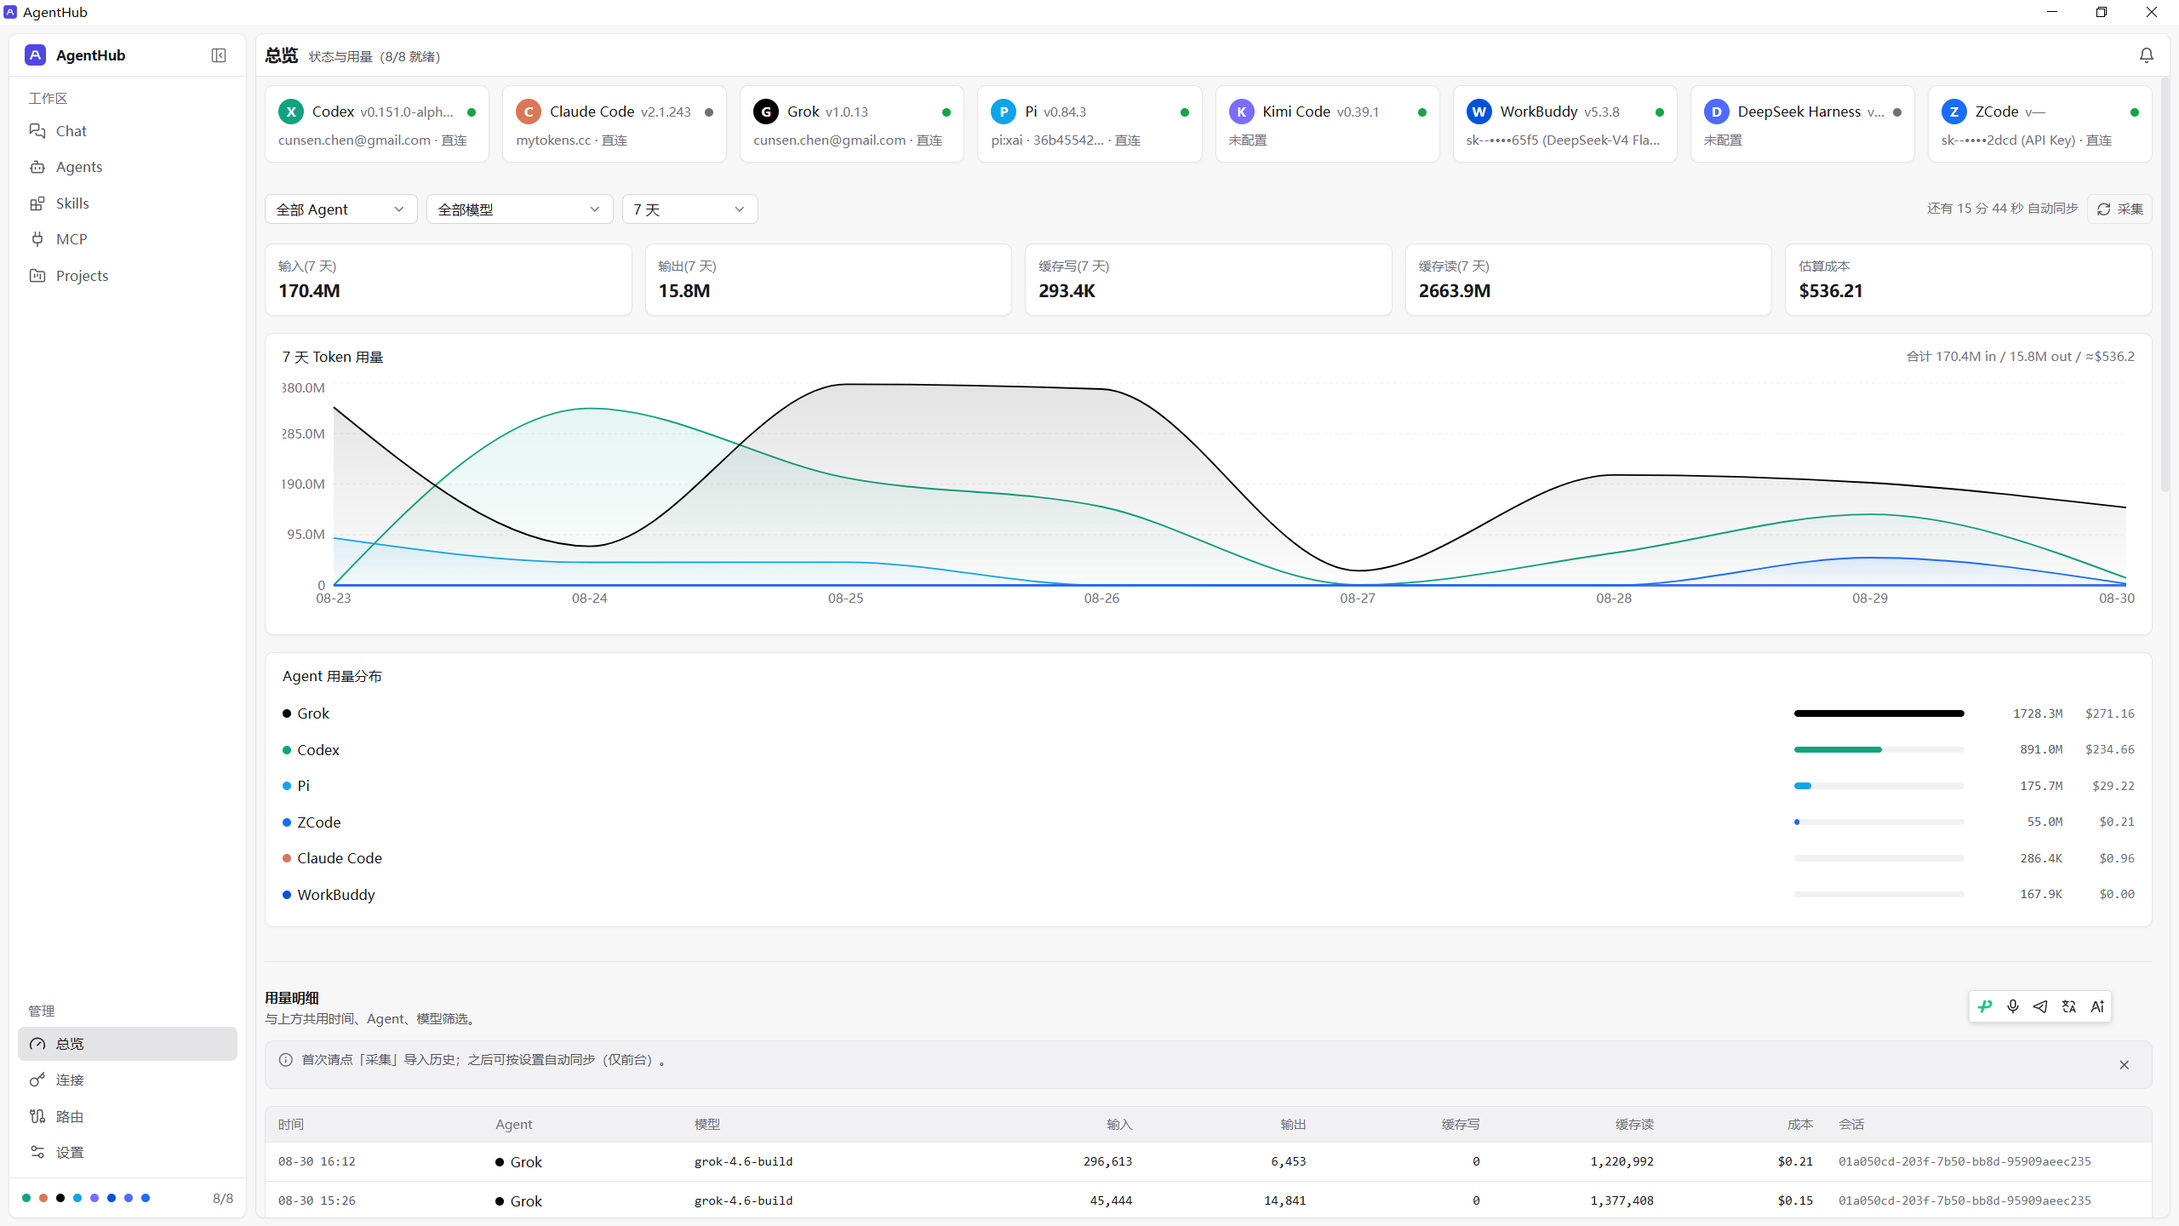
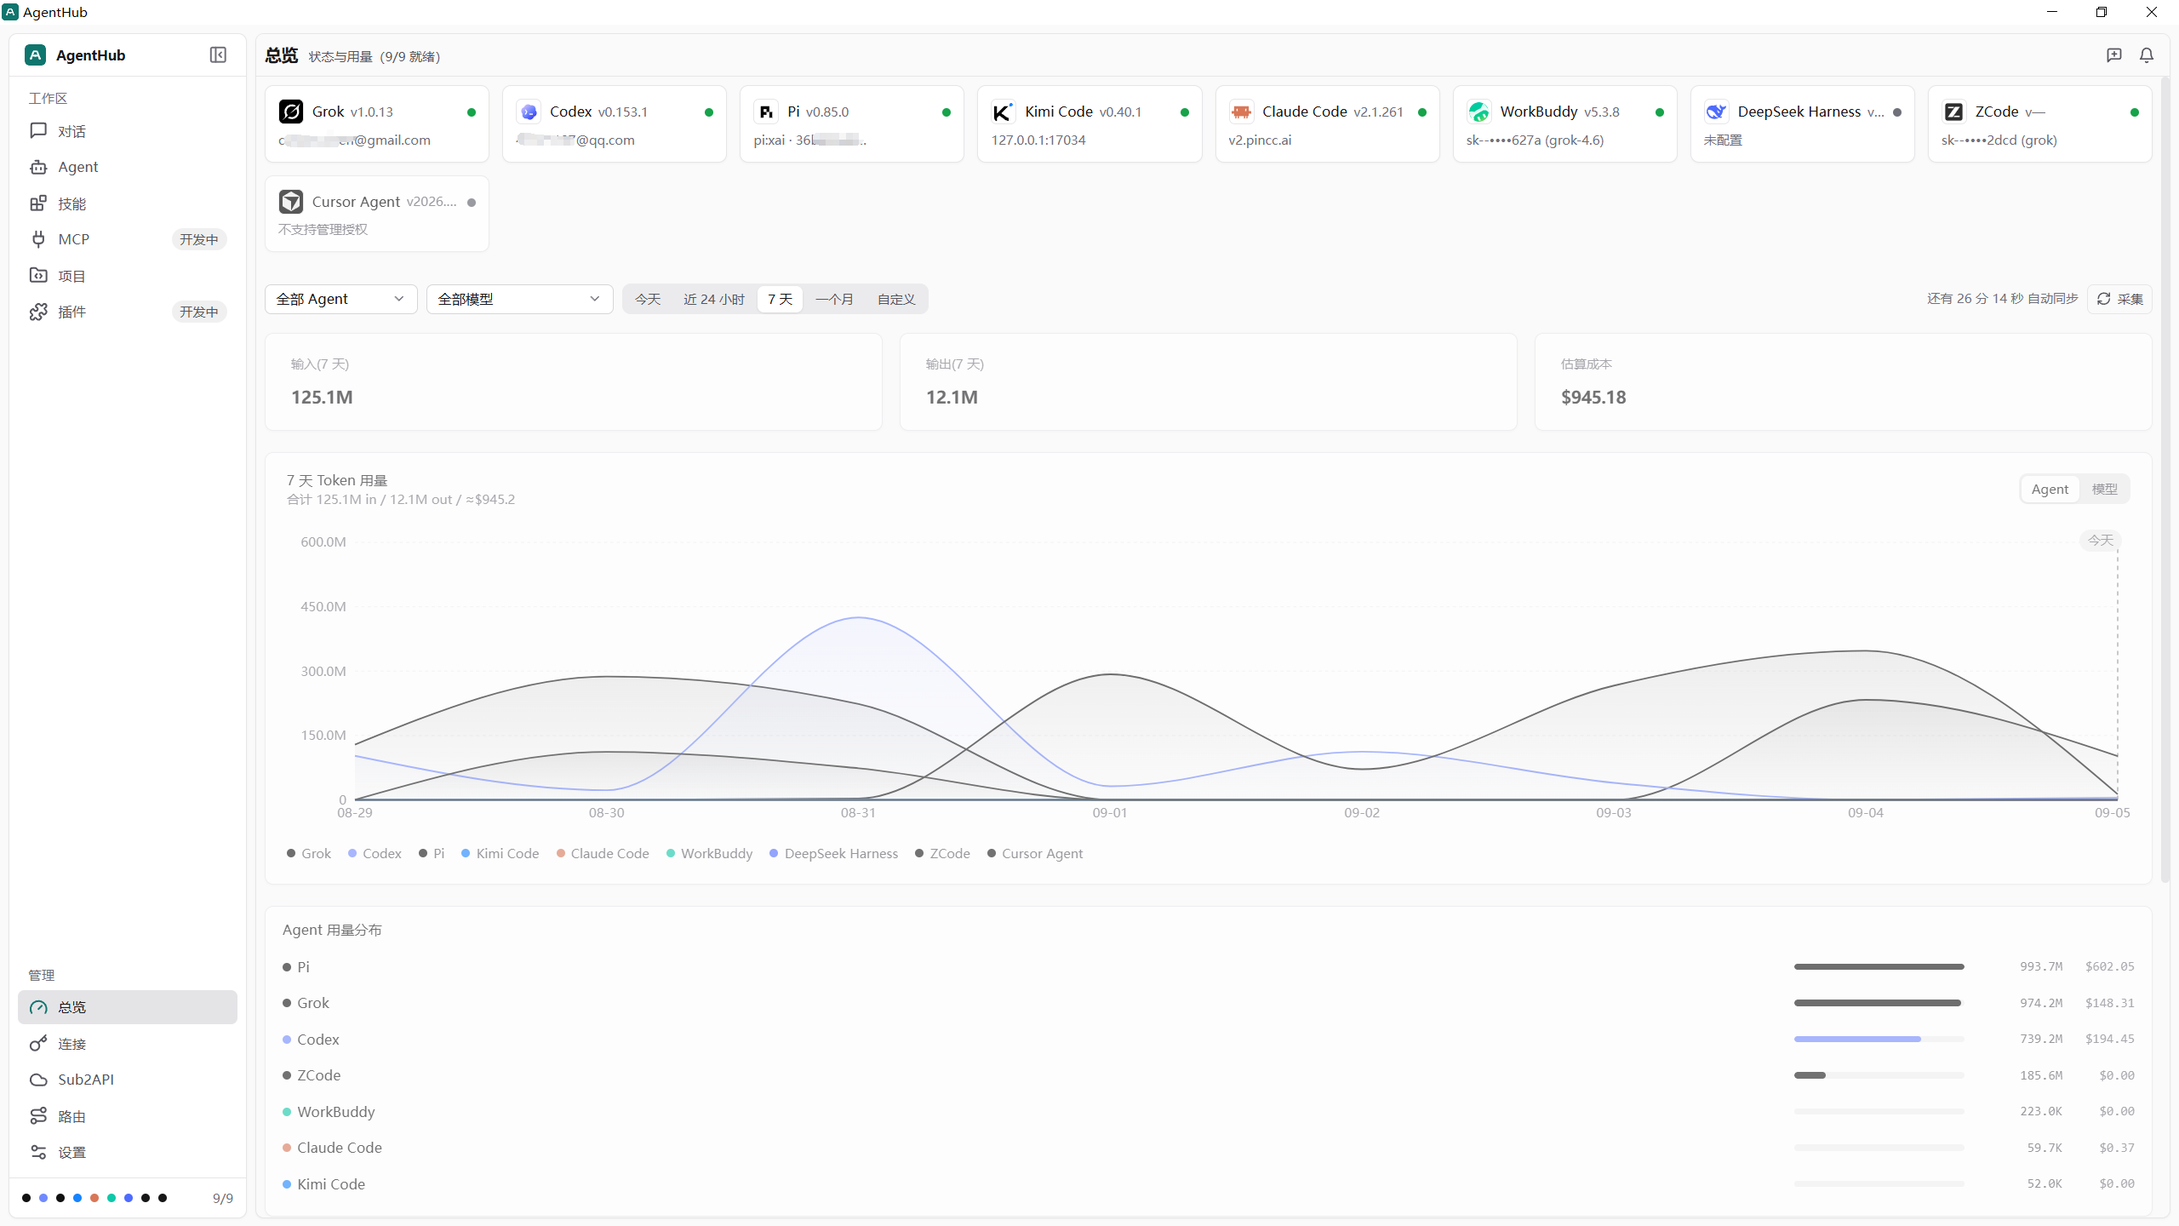
Refactor code structure for improved readability and maintainability

diff --git a/docs/ui/page-patterns.md b/docs/ui/page-patterns.md
@@ -3,7 +3,7 @@ title: UI 页面模式
 type: reference
 status: current
 owner: maintainers
-updated: 2026-09-04
+updated: 2026-09-05
 ---
 
 # UI Page Patterns
@@ -26,10 +26,11 @@ The application is organized by work and management, with Agent filtering inside
 | Workspace | Plugins | `/plugins` | Installed vendor plugin / extension packs; Claude / Grok can enable or disable; Pi is list-only |
 | Manage | Dashboard | `/` | Agent status, usage, and shortcuts |
 | Manage | Connections | `/connections` | General login list; route-only entries with `home=route_pool` may be absent |
+| Manage | Sub2API | `/sub2api` | Sign in to a Sub2API site, manage API keys by group, and import usable keys into an installed Agent |
 | Manage | Routes | `/routes` | Local route runtime and the connection pool. May add/manage route-only official login / API Key; `/routes` opens the board; secondary nav: board / pool / tokens / activity |
 | Manage | Settings | `/settings` | Preferences, local device, backups, and about |
 
-`Routes`, `Plugins`, and `MCP` are in development. New installs hide the Routes and Plugins sidebar entries (`routesNavVisible` / `pluginsNavVisible` default off). Turning the setting on shows those entries; the pages stay reachable at `/routes` and `/plugins`. MCP stays in the workspace nav. Settings (Routes / Plugins), the page titles, and the sidebar entries (when shown) carry an in-development mark. Usage is a Dashboard section; `/usage` redirects to `/?section=usage`. Backups are a Settings tab; `/backups` redirects to `/settings?tab=backups`. Install / uninstall / update for plugin packs is still a [proposal](../proposals/plugin-management.md). The current page lists installed packs for Claude, Grok, and Pi; Claude and Grok can enable or disable. There is no install button.
+`Routes`, `Plugins`, and `MCP` are in development. New installs hide the Routes, Plugins, and Sub2API sidebar entries (`routesNavVisible`, `pluginsNavVisible`, and `sub2apiNavVisible` default off). Turning a setting on shows its entry; the pages stay reachable at `/routes`, `/plugins`, and `/sub2api`. MCP stays in the workspace nav. Settings (Routes / Plugins), the page titles, and the sidebar entries (when shown) carry an in-development mark. Usage is a Dashboard section; `/usage` redirects to `/?section=usage`. Backups are a Settings tab; `/backups` redirects to `/settings?tab=backups`. Install / uninstall / update for plugin packs is still a [proposal](../proposals/plugin-management.md). The current page lists installed packs for Claude, Grok, and Pi; Claude and Grok can enable or disable. There is no install button.
 
 The compatibility paths `/adapter` and `/router` replace-navigate to `/routes`. They are recovery paths for existing links, not current navigation labels.
 
@@ -62,7 +63,7 @@ The page title is a single line: name, then short description. Distinguish them 
 
 ### 2.2 Full-height workbench
 
-Chat, Skills, Projects, Plugins, Connections, Routes, and Settings use `fullBleed` and manage their own vertical scrolling. Full-height does not create a third content width: Chat messages use the reading column; Skills, Projects, Plugins, Connections, and the Settings backups tab use the edge column with a split preview surface. Page-level commands stay in the list column, on the right of the same row as tabs or filters. They do not occupy a row of their own. The workbench list and the preview column share the same `pageEdge.inset` top and bottom so both edges line up. The page title itself stays in the top bar.
+Chat, Skills, Projects, Plugins, Connections, Sub2API, Routes, and Settings use `fullBleed` and manage their own vertical scrolling. Full-height does not create a third content width: Chat messages use the reading column; Skills, Projects, Plugins, Connections, Sub2API, and the Settings backups tab use the edge column with a split preview surface. Page-level commands stay in the list column, on the right of the same row as tabs or filters. They do not occupy a row of their own. The workbench list and the preview column share the same `pageEdge.inset` top and bottom so both edges line up. The page title itself stays in the top bar.
 
 ### 2.3 Settings
 
@@ -70,7 +71,7 @@ Settings uses the workbench header and four page tabs; the tab row stays at the 
 
 | Tab | Query | Contents |
 |---|---|---|
-| Preferences | `?tab=preferences` | Grouped cards: language and appearance; launch and close; sidebar (auto-collapse on Routes; Routes / Plugins visibility); Routes (duplicate-key tip and same-URL update); Skills (market source); Usage (collection interval) |
+| Preferences | `?tab=preferences` | Grouped cards: language and appearance; launch and close; sidebar (auto-collapse on Routes; Routes / Plugins / Sub2API visibility); Routes (duplicate-key tip and same-URL update); Skills (market source); Usage (collection interval) |
 | This computer | `?tab=local` | Data directory, log level, retention, log directory |
 | Backups | `?tab=backups` | Agent configuration snapshots; keep-copies switch; restore/delete; file inspect |
 | About | `?tab=about` | Version, update check, repository, and read-only credential-storage notes |
@@ -153,7 +154,11 @@ The primary start/stop control for the shared local gateway is on the board, not
 
 The current `local_bridge` runtime is hosted in the Tauri process through the in-process control host. Routes may report unavailable when that host is not reachable. A future sidecar is a proposal and is not a current UI assumption.
 
-## 7. Chat
+## 7. Sub2API
+
+Sub2API is a separate site-management workbench, not a Routes subpage or a replacement for Connections. A signed-in user can filter keys by group; create, edit, enable, disable, or delete keys; and import a usable key into an installed Agent. The visible API key value stays masked. Site session and saved-account controls belong to this page, not the Connections list.
+
+## 8. Chat
 
 Chat is a one-conversation, one-Agent workbench with a session rail, transcript, process panel, and composer.
 
@@ -166,7 +171,7 @@ Chat is a one-conversation, one-Agent workbench with a session rail, transcript,
 - Switching conversations clears in-memory process buffers for the old view but does not cancel the active operation. The target conversation shows a “sending elsewhere” recovery line.
 - Copy is available for completed user/Agent messages. Running messages do not show copy or retry.
 
-## 8. Skills, Projects, and Plugins
+## 9. Skills, Projects, and Plugins
 
 Skills, Projects, and Plugins are full-height workbenches with a left inventory and an optional right preview.
 
@@ -193,7 +198,7 @@ Skills, Projects, and Plugins are full-height workbenches with a left inventory 
 - Details lead with the pack components (bundled MCP is a component, not a list row). Identity fields (version, marketplace, scope, path) follow. Pi also shows the specified version from settings when pinned, and a short note on how upgrade is judged (pinned npm specs are skipped by Pi updates; this page does not probe npm for a newer unpinned version). Claude and Grok packs can be turned on or off; turning off is not uninstall. There is no install button.
 - Empty copy depends on the Agent filter: wired-but-empty (install in that tool, then refresh), planned (list not wired yet), or unsupported (this tool has no pack system of this kind). Loading, empty, and error states stay in the list column. Diagnostic scan sources are not shown in the list. Hiding the sidebar item does not disable `/plugins`.
 
-## 9. Agents and MCP
+## 10. Agents and MCP
 
 ### Agents
 
@@ -203,7 +208,7 @@ Agents is the lifecycle surface: installed state, runtime readiness, install/upd
 
 MCP is a read-only inventory of known **MCP server** configuration files. It lists Agent, server, transport, source path, and enabled status. Parse errors, missing files, and an empty inventory each get their own recoverable state. Inventory does not imply that editing or injection is supported, and it is not the plugin/extension pack manager. The current page is a standard single-column table. Plugin / extension packs live on `/plugins`.
 
-## 10. Responsive and interaction constraints
+## 11. Responsive and interaction constraints
 
 - Use stable grid tracks (`auto-fit`/`minmax`) for Agent cards, tables, toolbars, and preview panes.
 - On narrow windows, wrap labels and metadata instead of shrinking type or allowing overlap. Icon-only actions remain available through an overflow menu when the row cannot fit.
@@ -211,7 +216,7 @@ MCP is a read-only inventory of known **MCP server** configuration files. It lis
 - Escape closes the topmost dialog/menu/popover before closing a preview. Focus order follows content, row actions, separator, preview tools, then document body.
 - Page-specific user copy belongs with the page pattern or locale dictionary. Do not embed implementation phase labels in visible UI.
 
-## 11. Current implementation references
+## 12. Current implementation references
 
 - Layout and routing composition: `src/App.tsx`, `src/components/layout/`, and `src/pages/`.
 - Shared component rules: `src/components/ui/`, `src/components/shared/`, and [design-system.md](design-system.md).

diff --git a/README.en.md b/README.en.md
@@ -14,6 +14,7 @@ The desktop UI is available in English and 简体中文. Switch under **Settings
 
 - Manage local agents such as Claude Code, Codex, Kimi, Grok, Pi, WorkBuddy, ZCode, Cursor Agent, and DeepSeek Harness. Cursor Agent is hidden from the sidebar and Connections by default; you can unhide it on Agents.
 - See logins and connections across tools. Prefer writing directly into the target tool’s config. **Local forwarding** is used only when there are published rules and a tested protocol conversion; otherwise the UI shows **Not supported now**, and nothing is forwarded silently.
+- Sign in to a Sub2API site, manage its API keys, and import usable keys into installed agents.
 - Manage shared Skills, inspect discovered MCP, and browse projects and sessions.
 - Start a local session in the desktop app and watch the streaming process. Usage and cost estimates are parsed from local session logs.
 - Use the CLI for `doctor`, `env`, `agent`, `provider`, `account`, `skill`, `usage`, `backup`, `run`, and `config`.
@@ -22,7 +23,7 @@ Current implementation limits and known gaps: [implementation status](docs/STATU
 
 ## UI preview
 
-These are the current desktop pages. Screenshots are from a real desktop window, with the system taskbar cropped. The same pages are available in English from **Settings → Preferences → Language**.
+These are the current desktop pages. Screenshots are from the real desktop app; email addresses, local paths, API keys, and other private details are redacted. The same pages are available in English from **Settings → Preferences → Language**.
 
 ### Dashboard
 
@@ -64,7 +65,7 @@ Browse local projects and sessions by agent. You can open a folder, preview an e
 
 Four tabs:
 
-- **Preferences**: language, theme, brand color, launch at login, close to tray, whether the sidebar shows Routes / Plugins, skill market, and related options
+- **Preferences**: language, theme, brand color, launch at login, close to tray, whether the sidebar shows Routes / Plugins / Sub2API, skill market, and related options
 - **This computer**: data directory and logs
 - **Backups**: config snapshots kept before a switch or import; restore or delete
 - **About**: version, check for updates, and the repository link
@@ -81,7 +82,15 @@ Lists plugin packs already installed in Claude, Grok, and Pi. Claude and Grok pa
 
 ### Routes
 
-Manage local forwarding: fill clients with a local address. Login details stay on Connections. Most connections can use Direct or Use this login. Mixed vendors and some protocol conversions are still in development; this is not a finished universal router.
+Manage local forwarding. The board shows connections and usage, Pools manage the logins used by local forwarding, Entry Keys let target tools connect, and Monitoring shows request records. Login details stay on Connections; share a login to a Pool when needed. Mixed vendors and some protocol conversions are still in development; this is not a finished universal router.
+
+![Routes board](docs/assets/screenshots/router-board.png)
+
+### Sub2API
+
+Sign in to a Sub2API site to view and manage API keys by group, then import usable keys into installed agents. The sidebar entry can be shown or hidden in Preferences.
+
+![Sub2API](docs/assets/screenshots/sub2api.png)
 
 ## Roadmap
 

diff --git a/README.md b/README.md
@@ -12,6 +12,7 @@ AgentHub 是一个本地运行的多 Agent 桌面工具。它用一个 GUI 和 C
 
 - 管理 Claude Code、Codex、Kimi、Grok、Pi、WorkBuddy、ZCode、Cursor Agent 和 DeepSeek Harness 等本机 Agent。Cursor Agent 默认不出现在侧栏和连接页，可在 Agents 里取消隐藏。
 - 查看跨工具的登录与连接，优先直接写入目标工具配置；只有存在开放规则和受测协议转换时才使用本机路由，否则明确显示“当前不支持”，不会静默转发。
+- 登录 Sub2API 站点，管理站点 API Key，并将可用 Key 导入已安装的 Agent。
 - 管理共享 Skills、查看已发现的 MCP、浏览项目与会话。
 - 在桌面端启动本机会话并查看流式过程，解析本地会话日志中的用量与成本估算。
 - 通过 CLI 执行 `doctor`、`env`、`agent`、`provider`、`account`、`skill`、`usage`、`backup`、`run` 和 `config` 等操作。
@@ -20,7 +21,7 @@ AgentHub 是一个本地运行的多 Agent 桌面工具。它用一个 GUI 和 C
 
 ## 界面预览
 
-当前桌面端有这些页面。截图来自真实桌面端；邮箱、本机路径、API Key 等隐私信息已用白色遮挡。
+当前桌面端有这些页面。截图来自真实桌面端；邮箱、本机路径、API Key 等隐私信息均已遮挡。
 
 ### 总览
 
@@ -62,7 +63,7 @@ AgentHub 是一个本地运行的多 Agent 桌面工具。它用一个 GUI 和 C
 
 四个栏：
 
-- **偏好**：分组显示语言与外观、启动与关闭、侧栏（是否显示路由 / 插件，新安装默认关闭，功能开发中）、路由、技能市场、用量采集
+- **偏好**：分组显示语言与外观、启动与关闭、侧栏（是否显示路由 / 插件 / Sub2API）、路由、技能市场、用量采集
 - **本机**：数据目录与日志
 - **备份**：切换或导入前留下的配置快照，可恢复或删除
 - **关于**：版本、检查更新与仓库入口
@@ -80,6 +81,14 @@ AgentHub 是一个本地运行的多 Agent 桌面工具。它用一个 GUI 和 C
 ### 本机路由
 
 管理本机转发。看板显示连接与用量，连接池管理本机转发使用的登录，入口 Key 供目标工具接入，监控查看请求记录。登录信息仍在连接页，需要时在连接池「从连接同步」。混合供应商和部分协议转换仍在开发中，不是已经做完的万能路由。
+
+![路由看板](docs/assets/screenshots/router-board.png)
+
+### Sub2API
+
+登录 Sub2API 站点后，可按分组查看和管理 API Key，并把可用 Key 导入已安装的 Agent。侧栏入口可在偏好中显示或隐藏。
+
+![Sub2API](docs/assets/screenshots/sub2api.png)
 
 ## 路线图
 

diff --git a/docs/STATUS.md b/docs/STATUS.md
@@ -3,7 +3,7 @@ title: AgentHub 当前实现状态
 type: status
 status: current
 owner: maintainers
-updated: 2026-09-04
+updated: 2026-09-05
 ---
 
 # 当前实现状态
@@ -13,8 +13,9 @@ updated: 2026-09-04
 ## 产品表面
 
 - 桌面端由 Tauri v2 承载，前端使用 React，核心业务和 CLI 使用 Rust。
-- 当前界面包含 Dashboard、Agents、Connections、Routes、Skills、MCP、Chat、Projects、Plugins 和 Settings。
+- 当前界面包含 Dashboard、Agents、Connections、Sub2API、Routes、Skills、MCP、Chat、Projects、Plugins 和 Settings。
 - Connections 是跨工具的登录列表。接到某个工具从 Dashboard「连接/切换」；连接页行入口是「分享至连接池」，登录仍留在连接页。**产品决策：所有 API Key 都可以分享（含 WorkBuddy / ZCode 等上配置的）；国产官方登录不能分享**，见 [产品边界](decisions/product-boundaries.md)。Routes 管理本机路由运行时，连接池也可以添加官方登录 / API Key（仅用于连接池，可不出现在连接页），并可用「从连接同步」一次加入多份登录。在连接池里编辑从连接页分享来的官方登录并保存时，会先复制成连接池自己的一份（连接页那份还在），再问要不要把模型写回连接页。连接页与连接池相互独立，回收站也分开。登录按登录方式分行保存（官方登录与 API Key 分开），记下关键词和整份配置；详情列出记下的配置文件（可复制、打开所在目录），并补充套餐、有效期、时间线与完整端点。WorkBuddy 自定义模型和 ZCode 供应商按目录拆成多条登录，桌面套餐登录不导入；WorkBuddy 写入只认 `/v1/chat/completions`。
+- Sub2API 是独立站点管理页：登录站点后可按分组查看、创建、编辑、启用/禁用或删除 API Key，并把可用 Key 导入已安装的 Agent。侧栏入口默认隐藏，打开偏好中的「显示 Sub2API 页面」后显示；隐藏只影响入口，不影响页面本身。
 - 当前内置适配包括 Claude Code、Codex、Kimi、Grok、Pi、WorkBuddy、ZCode 和 DeepSeek Harness。**Cursor Agent 适配器仍在代码中，但 dev 线通过 store-stamp 默认软隐藏**（Agents 管理页可取消隐藏）；待登录写入、路由目标与结构化输出等兼容问题修复后再重新开放。
 - CLI 提供 doctor、env、agent、provider、account、skill、usage、backup、run、config 等命令；参数以 CLI 帮助和源码为准。
 
